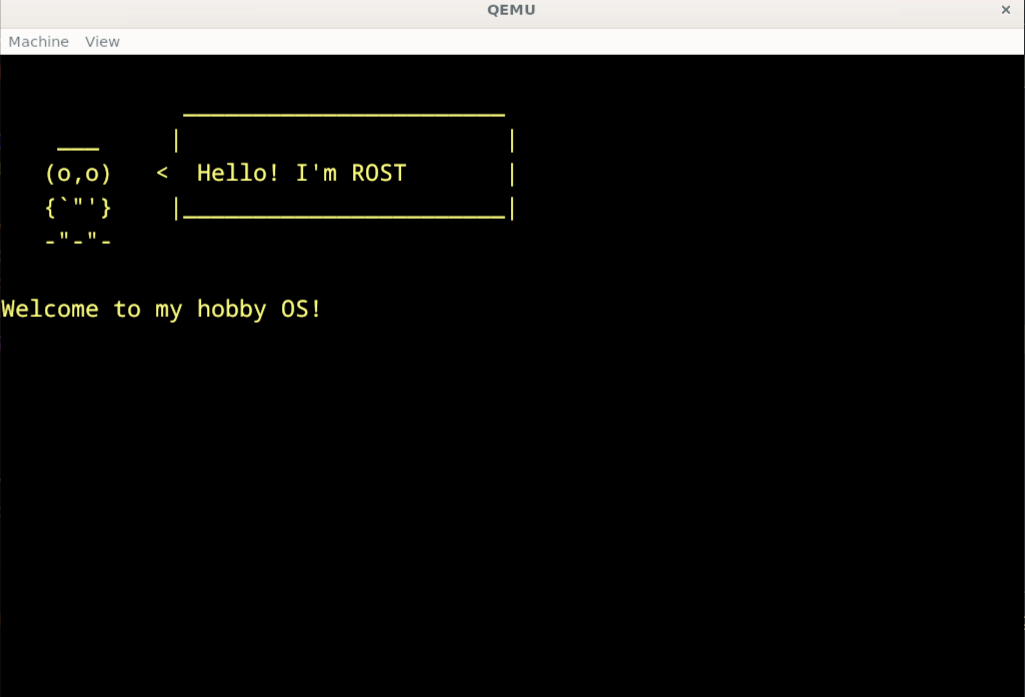
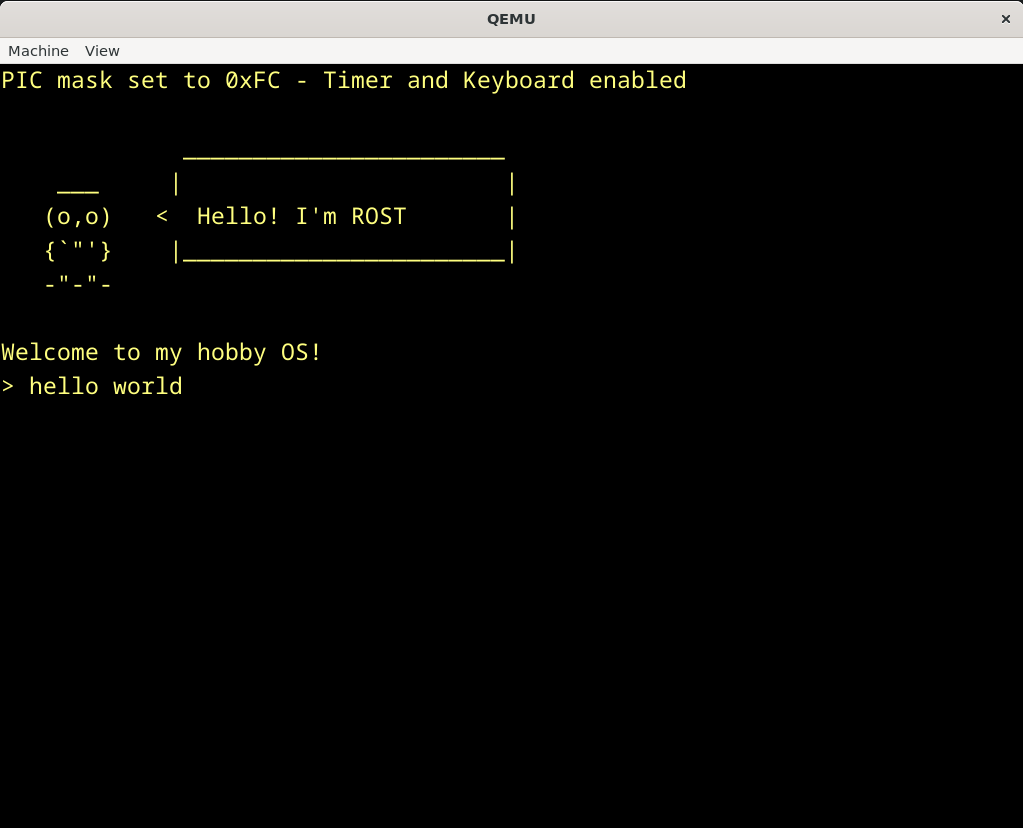
keyboard and timer!

diff --git a/kernel/src/interrupts.rs b/kernel/src/interrupts.rs
@@ -15,12 +15,10 @@ pub const PIC_2_OFFSET: u8 = PIC_1_OFFSET + 8;
 pub static PICS: Mutex<ChainedPics> =
     Mutex::new(unsafe { ChainedPics::new(PIC_1_OFFSET, PIC_2_OFFSET) });
 
-use crate::{gdt, println};
+use crate::{gdt, print, println};
 
-pub static IDT: OnceCell<InterruptDescriptorTable> = OnceCell::uninit();
-
-pub fn init_idt() {
-    IDT.init_once(|| {
+lazy_static! {
+    static ref IDT: InterruptDescriptorTable = {
         let mut idt = InterruptDescriptorTable::new();
         idt.breakpoint.set_handler_fn(breakpoint_handler);
         unsafe {
@@ -28,11 +26,15 @@ pub fn init_idt() {
                 .set_handler_fn(double_fault_handler)
                 .set_stack_index(gdt::DOUBLE_FAULT_IST_INDEX);
         }
+        idt[InterruptIndex::Timer.as_usize()].set_handler_fn(timer_interrupt_handler);
         idt[InterruptIndex::Keyboard.as_usize()].set_handler_fn(keyboard_interrupt_handler);
-        idt
-    });
 
-    IDT.get().unwrap().load();
+        idt
+    };
+}
+
+pub fn init_idt() {
+    IDT.load();
 }
 
 extern "x86-interrupt" fn breakpoint_handler(stack_frame: InterruptStackFrame) {
@@ -46,6 +48,13 @@ extern "x86-interrupt" fn double_fault_handler(
     _error_code: u64,
 ) -> ! {
     panic!("EXCEPTION: DOUBLE FAULT\n{:#?}", stack_frame);
+}
+
+extern "x86-interrupt" fn timer_interrupt_handler(_stack_frame: InterruptStackFrame) {
+    unsafe {
+        PICS.lock()
+            .notify_end_of_interrupt(InterruptIndex::Timer.as_u8());
+    }
 }
 
 extern "x86-interrupt" fn keyboard_interrupt_handler(_stack_frame: InterruptStackFrame) {
@@ -73,7 +82,6 @@ extern "x86-interrupt" fn keyboard_interrupt_handler(_stack_frame: InterruptStac
 pub enum InterruptIndex {
     Timer = PIC_1_OFFSET,
     Keyboard,
-    Mouse = PIC_1_OFFSET + 12,
 }
 
 impl InterruptIndex {

diff --git a/kernel/src/main.rs b/kernel/src/main.rs
@@ -3,7 +3,6 @@
 #![feature(abi_x86_interrupt)]
 #![feature(alloc_error_handler)]
 #![feature(try_blocks)]
-use anyhow;
 use bootloader_api::config::Mapping;
 use bootloader_api::BootloaderConfig;
 use console::{Console, CONSOLE};
@@ -12,6 +11,7 @@ use core::panic::PanicInfo;
 use memory::BootInfoFrameAllocator;
 use task::executor::{Executor, Spawner};
 use task::keyboard;
+use x86_64::instructions::port::Port;
 use x86_64::VirtAddr;
 
 mod allocator;
@@ -54,6 +54,14 @@ fn kernel_main(boot_info: &'static mut bootloader_api::BootInfo) -> ! {
     gdt::init();
     interrupts::init_idt();
 
+    unsafe {
+        interrupts::PICS.lock().initialize();
+        let mut master_pic = Port::<u8>::new(0x21);
+        master_pic.write(0xFC);
+        println!("PIC mask set to 0xFC - Timer and Keyboard enabled");
+    };
+    x86_64::instructions::interrupts::enable();
+
     let phys_mem_offset = VirtAddr::new(*boot_info.physical_memory_offset.as_ref().unwrap());
     let mut mapper: x86_64::structures::paging::OffsetPageTable<'_> =
         unsafe { memory::init(phys_mem_offset) };
@@ -63,6 +71,7 @@ fn kernel_main(boot_info: &'static mut bootloader_api::BootInfo) -> ! {
 
     println!("{}", OWL);
     println!("Welcome to my hobby OS!");
+    print!("> ");
 
     let _result: anyhow::Result<()> = try {
         let spawner = Spawner::new(100);

diff --git a/kernel/src/memory.rs b/kernel/src/memory.rs
@@ -7,6 +7,8 @@ use bootloader_api::info::{MemoryRegionKind, MemoryRegions};
 use x86_64::structures::paging::{FrameAllocator, OffsetPageTable, PageTable, PhysFrame, Size4KiB};
 use x86_64::{PhysAddr, VirtAddr};
 
+use crate::println;
+
 pub struct BootInfoFrameAllocator {
     memory_regions: &'static MemoryRegions,
     next: usize,

diff --git a/src/bin/qemu-uefi.rs b/src/bin/qemu-uefi.rs
@@ -9,8 +9,7 @@ fn main() {
     qemu.arg(format!("format=raw,file={}", env!("UEFI_IMAGE")));
     qemu.arg("-bios");
     qemu.arg("OVMF_CODE.fd");
-    qemu.arg("-device");
-    qemu.arg("virtio-keyboard");
+
     let exit_status = qemu.status().unwrap();
     process::exit(exit_status.code().unwrap_or(-1));
 }

diff --git a/kernel/src/task/executor.rs b/kernel/src/task/executor.rs
@@ -1,3 +1,5 @@
+use crate::println;
+
 use super::{Task, TaskId};
 use alloc::{collections::BTreeMap, sync::Arc, task::Wake};
 use core::future::Future;
